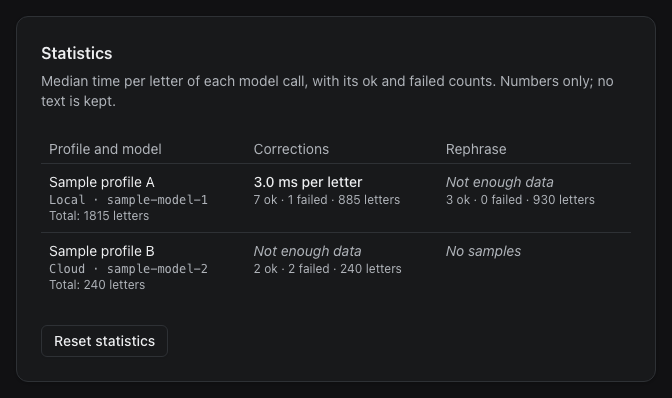
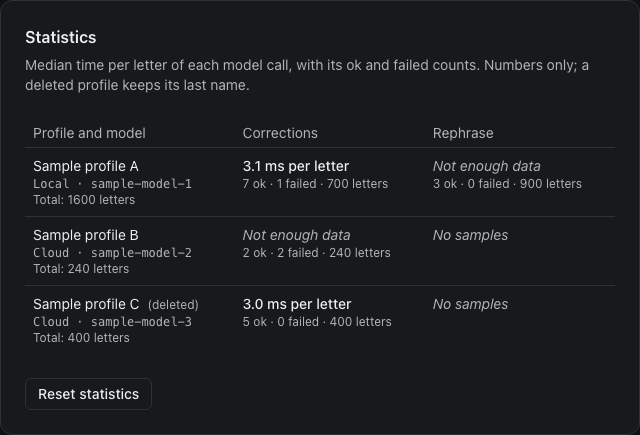
fix(settings-web): say a deleted profile keeps its last name

diff --git a/apps/settings-web/src/features/statistics/statistics-panel.tsx b/apps/settings-web/src/features/statistics/statistics-panel.tsx
@@ -135,8 +135,8 @@ export const StatisticsPanel = ({ token }: { token: string }) => {
       <CardHeader>
         <CardTitle className="m-0 text-base">Statistics</CardTitle>
         <p className="m-0 text-muted-foreground">
-          Median time per letter of each model call, with its ok and failed counts. Numbers only; no
-          text is kept.
+          Median time per letter of each model call, with its ok and failed counts. Numbers only; a
+          deleted profile keeps its last name.
         </p>
       </CardHeader>
       <CardContent>
